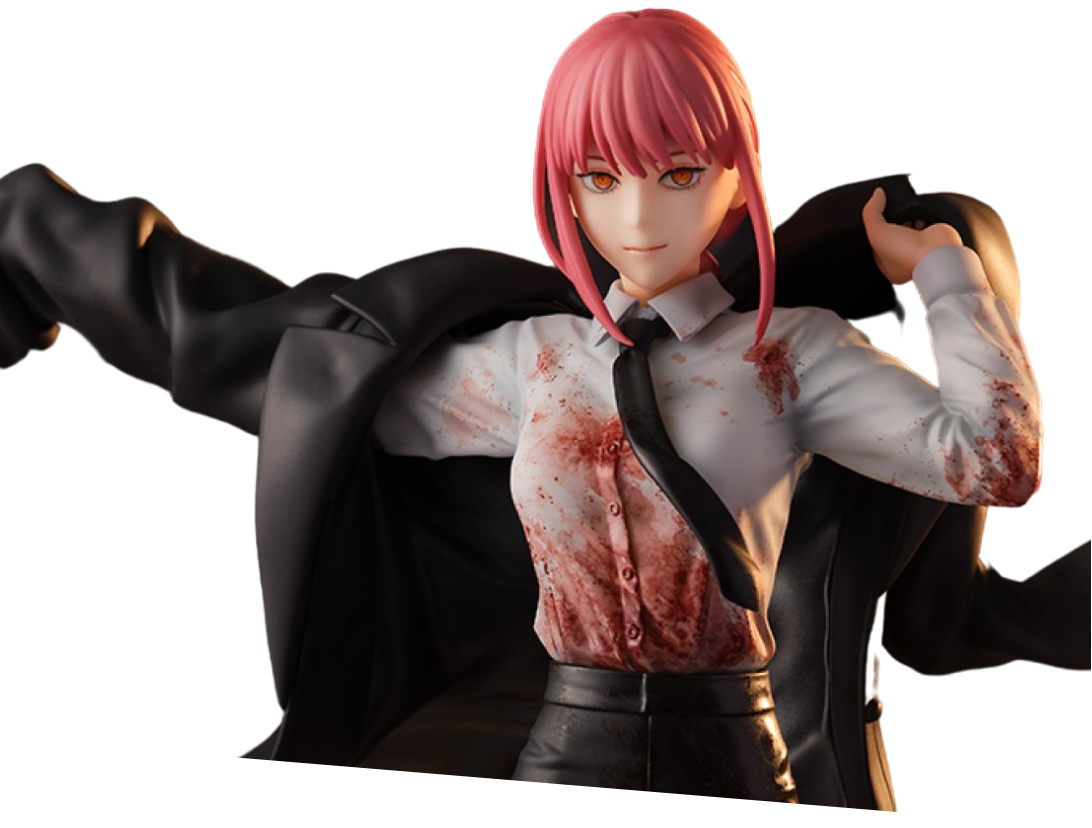
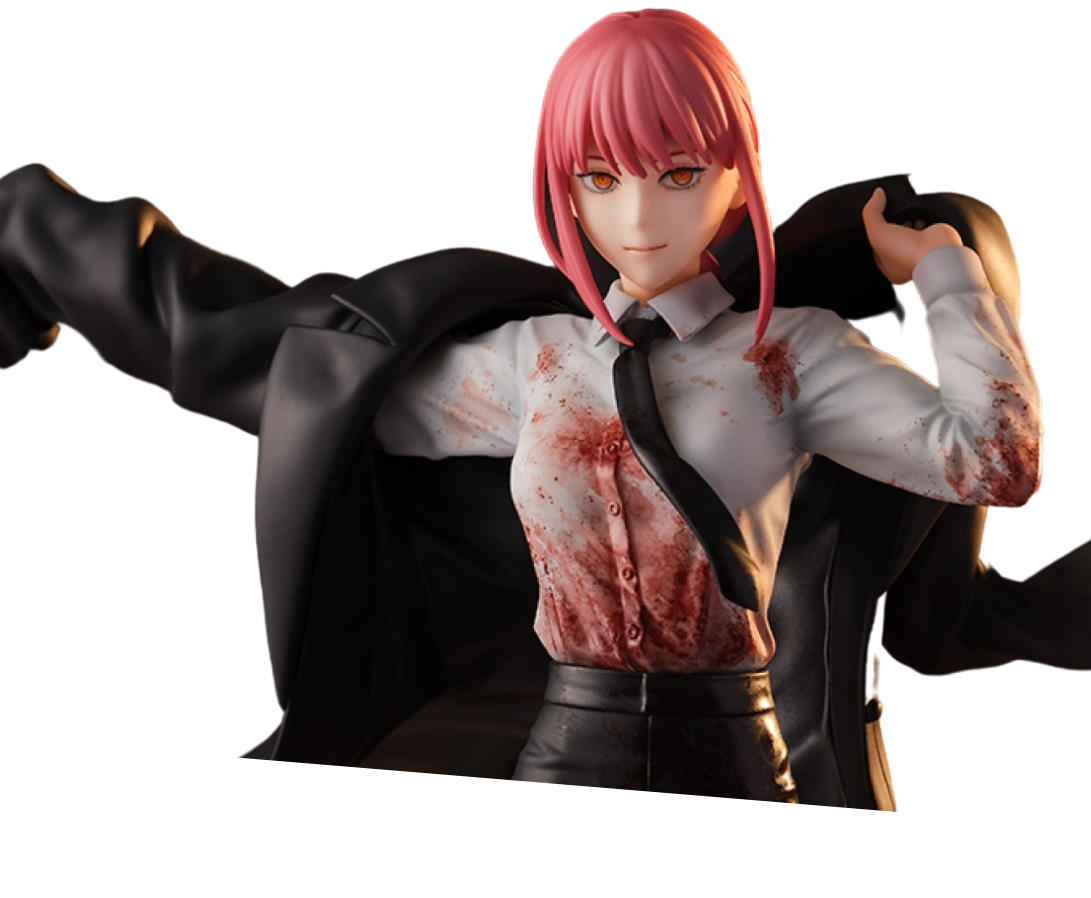
修正

diff --git a/css/style.css b/css/style.css
@@ -123,8 +123,6 @@ main{
 }
 .fig-makima{
     position: absolute;
-    /* width: 100%; */
-    height: 828px;
     left: 0;
     top: 0;
     z-index: 4;
@@ -132,9 +130,6 @@ main{
 .fig-makima img{
     width: 100%;
     pointer-events: none;
-}
-.fig-bg img{
-    width: 100%;
 }
 .fig-wrapper{
     width: 1000px;
